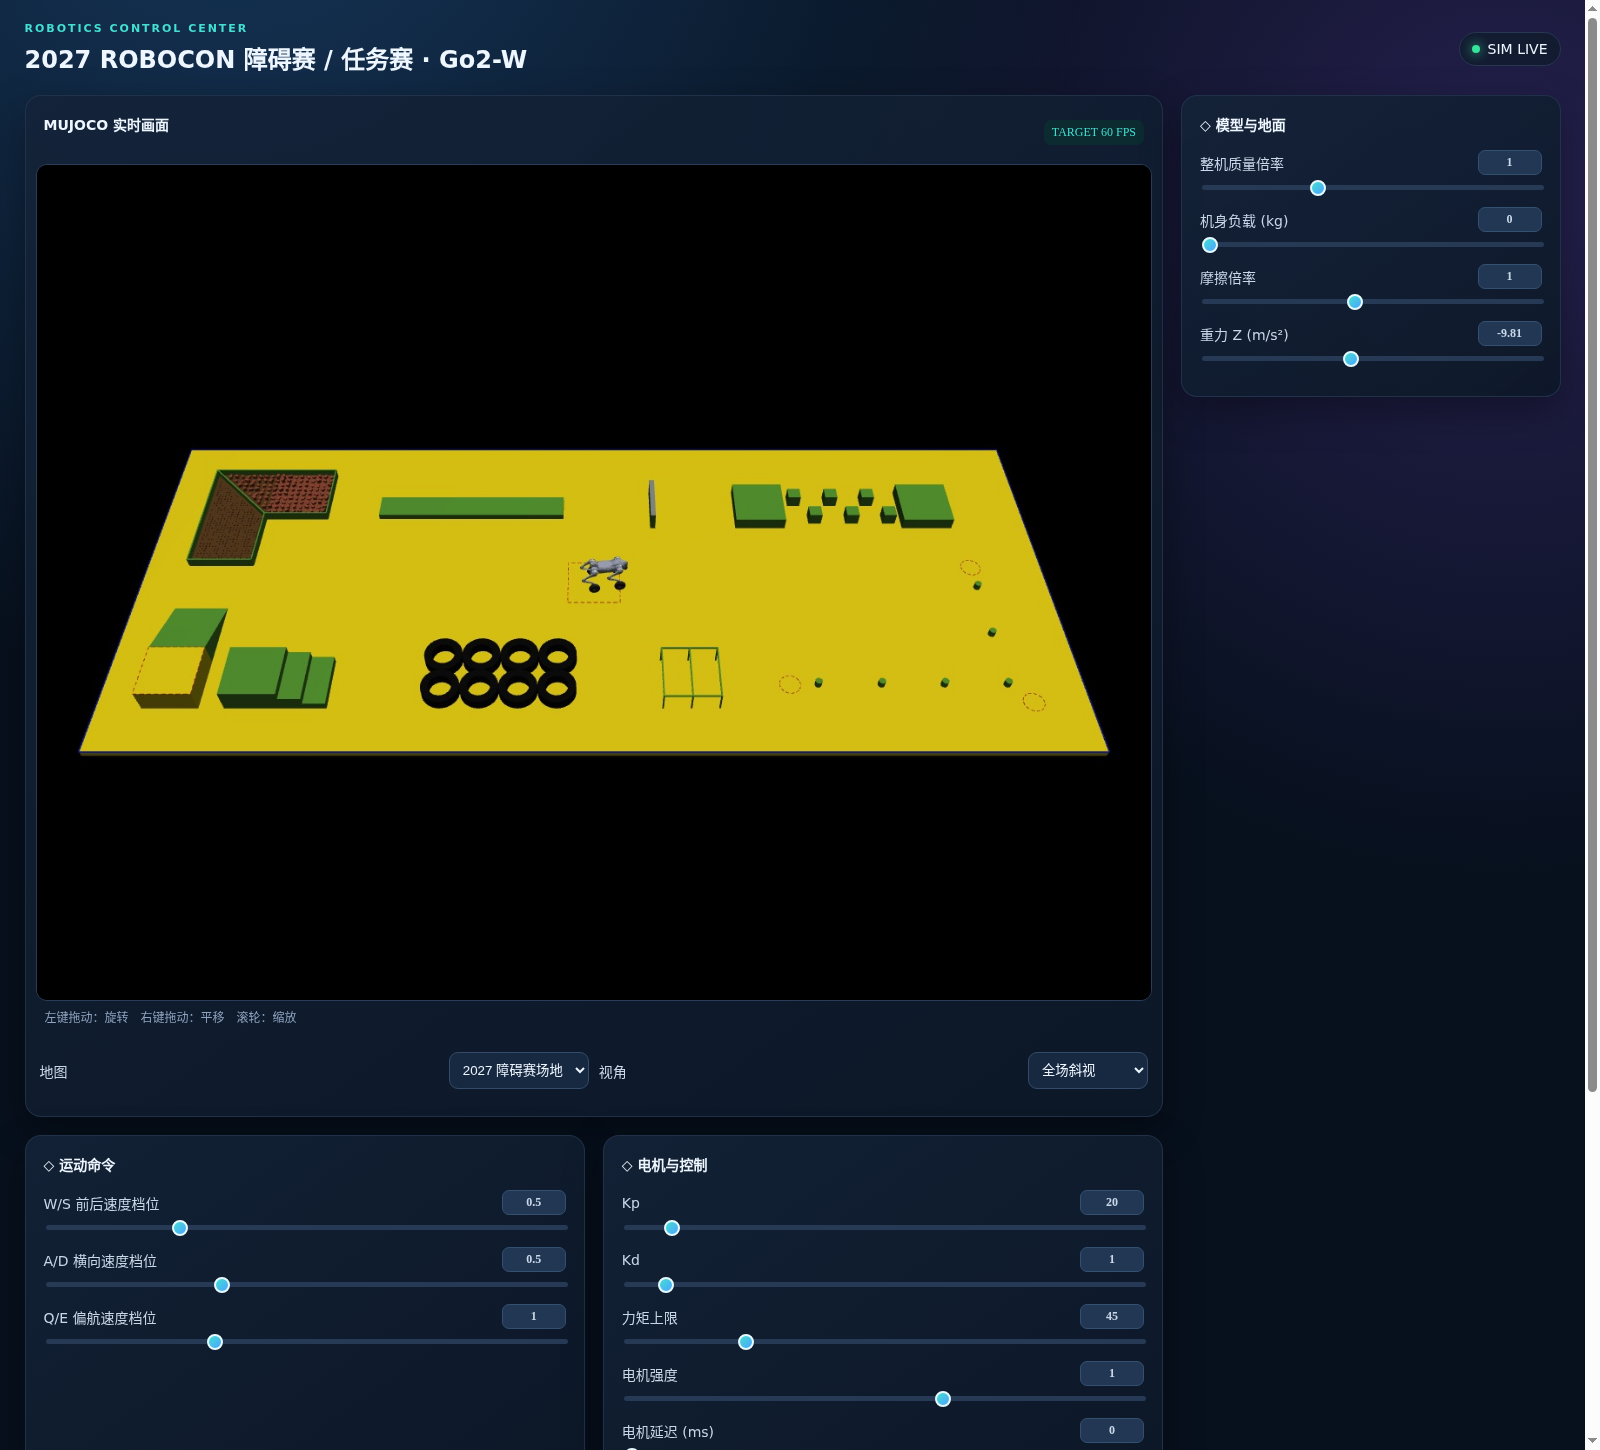
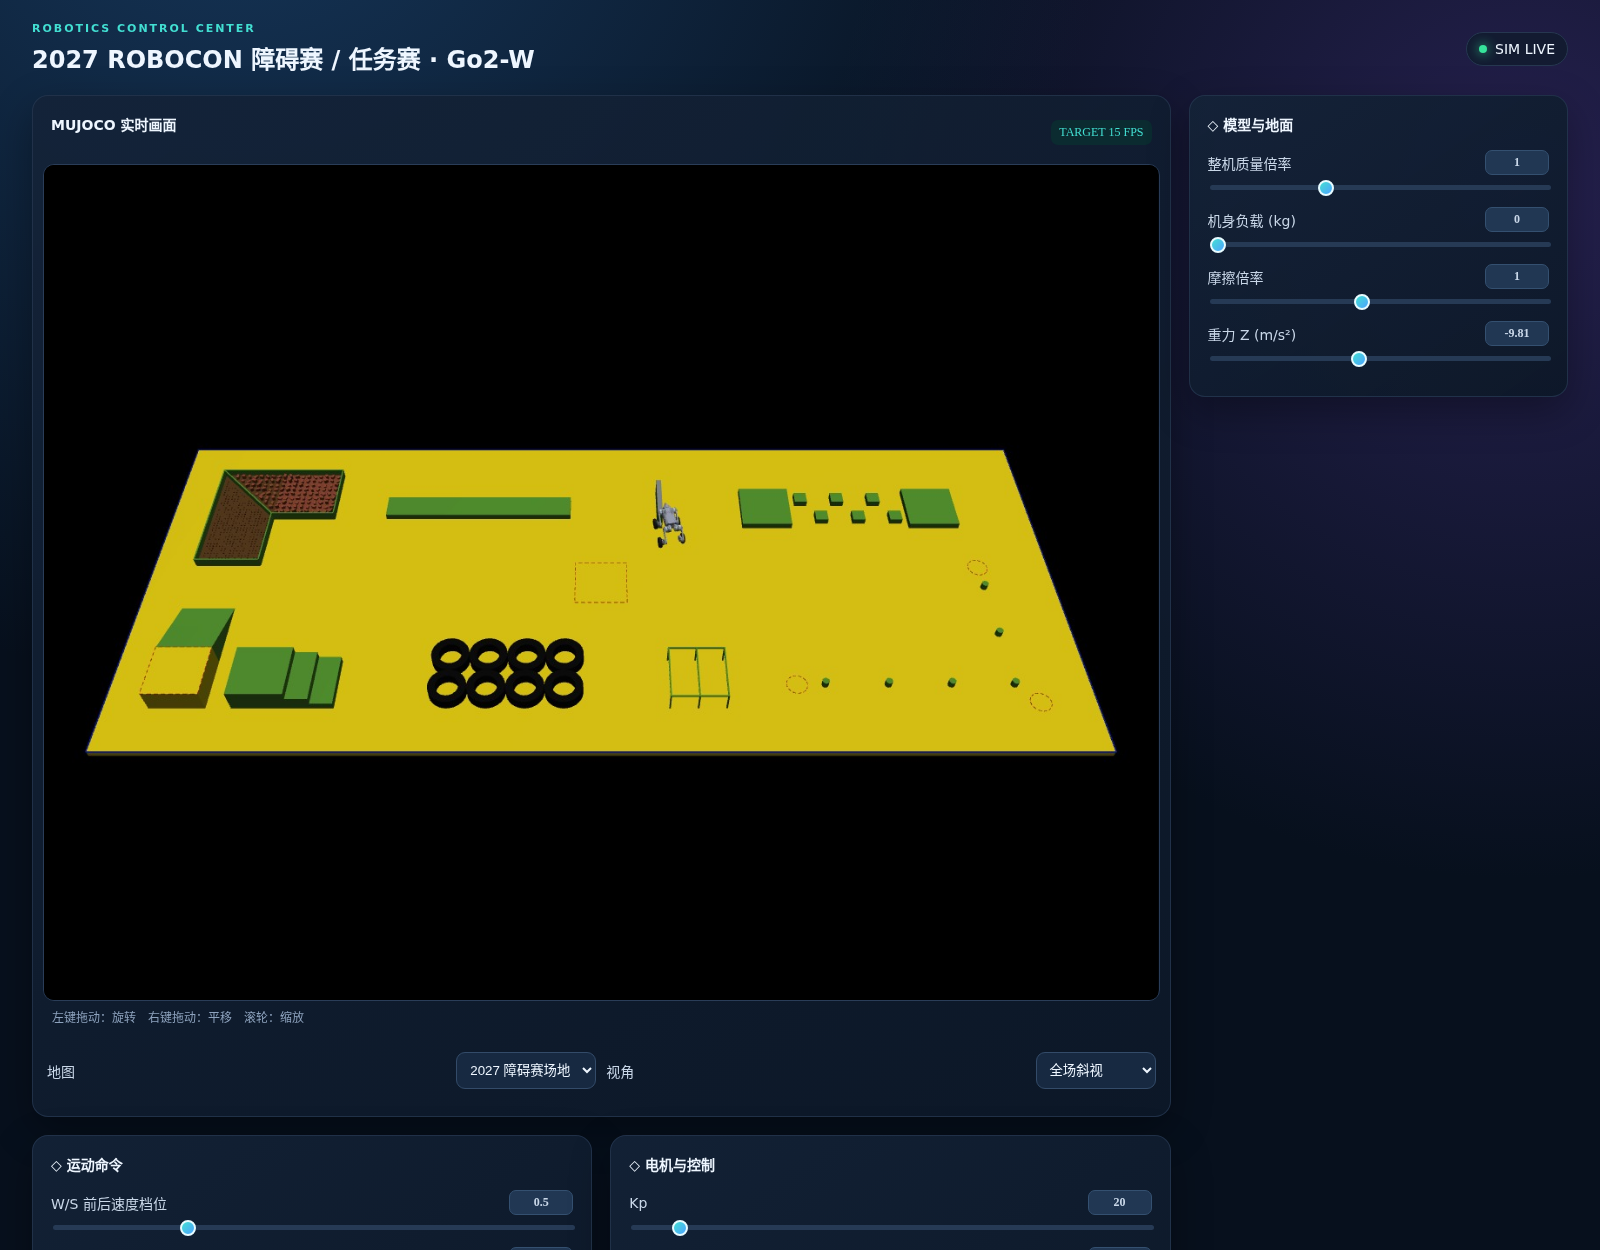
v2

Changed region(s): [[0.0, 0.0, 1.0, 1.0]]

diff --git a/scripts/generate_course.py b/scripts/generate_course.py
@@ -1,4 +1,4 @@
-"""Generate a self-contained MJCF training course from ROBOCON 2027 rules."""
+"""Generate a self-contained MJCF training course from ROBOCON 2027 V2.0 rules."""
 from pathlib import Path
 import math
 import random
@@ -73,12 +73,12 @@ def build():
     b=body('high_wall',(.95,1.55,0))
     geom(b,'wall_main',(0,0,.1475),(.04,.4,.1475))
     geom(b,'wall_steel_cap',(0,0,.2975),(.04,.4,.0025),color='0.55 0.58 0.60 1')
-    # Plum blossom blocks: total length 3.5 m, two staggered rows of three blocks.
+    # V2.0: 0.1 m-high platforms and blocks; total length 3.5 m, two staggered rows.
     b=body('stepping_stones',(2.29,1.55,0))
     for label,x in [('entry',.4),('exit',3.1)]:
-        geom(b,f'stones_{label}_platform',(x,0,.1),(.4,.4,.1))
+        geom(b,f'stones_{label}_platform',(x,0,.05),(.4,.4,.05))
     for row,(x0,y) in enumerate([(1.,.2),(1.3,-.2)]):
-        for i in range(3): geom(b,f'stone_{row}_{i}',(x0+.6*i,y,.1),(.1,.1,.1))
+        for i in range(3): geom(b,f'stone_{row}_{i}',(x0+.6*i,y,.05),(.1,.1,.05))
     # Clearance frame: actual inner width .8 and beam UNDERSIDE z=.29.
     b=body('clearance_frame',(1.37,-1.88,0))
     for i,x in enumerate([-.4,0,.4]):

diff --git a/README.md b/README.md
@@ -1,12 +1,23 @@
 # 2027 ROBOCON 足式机器人挑战赛 · MuJoCo 场地
 
-根据《2027 年足式机器人挑战赛比赛规则 V1.0》搭建的 **障碍赛与任务赛 MJCF 场景**，用于场地预览、机器人越障测试和 sim-to-sim 验证。另提供 Go2-W ONNX 行走策略的部署入口，可在浏览器面板中切换两张地图、控制机器人并实时调参。
+根据《2027 年足式机器人挑战赛比赛规则》搭建的 **障碍赛与任务赛 MJCF 场景**，用于场地预览、机器人越障测试和 sim-to-sim 验证。另提供 Go2-W ONNX 行走策略的部署入口，可在浏览器面板中切换两张地图、控制机器人并实时调参。
+
+障碍赛已按 V2.0（2026-10-29）更新：梅花桩及两端平台高度为 100 mm，轮胎为黑色。任务赛场地沿用 V1.0 建模，当前未实现自动判分。
 
 场地按规则尺寸和示意图建模，是训练与验证用实现；障碍赛最终摆放位置以赛事公布为准。
 
 ![Go2-W 浏览器仿真面板：障碍赛地图](docs/images/gui-obstacle.png)
 
 *实际浏览器界面：左侧为 MuJoCo 画面，下方预留菜单用于选择地图和视角，右侧可调整质量、载荷、摩擦和重力。*
+
+## 更新日志
+
+### 2026-10-29
+
+- 按比赛规则 V2.0 更新障碍赛地图：梅花桩方块由 200 × 200 × 200 mm 改为 200 × 200 × 100 mm，两端平台由 800 × 800 × 200 mm 改为 800 × 800 × 100 mm，底面保持贴地。
+- 核对轮胎为规则要求的黑色，同步更新障碍赛生成脚本、场地 XML 与建模说明。
+- 重新渲染障碍赛斜视图、俯视图，并更新浏览器面板截图。
+- 通过几何尺寸核对、MuJoCo 3.11.0 加载与 100 步运行验证。
 
 ## 地图预览
 
@@ -198,7 +209,7 @@ python scripts/generate_task_course.py
 
 ## 来源与许可
 
-场地依据《2027 年足式机器人挑战赛比赛规则 V1.0》，障碍赛对应第 3.1 节、图 1-1 / 1-2、表 1，任务赛对应第 3.2 节、图 2–6。物资箱标识图片直接提取自规则 PDF 图 3。规则原文、赛事标识和这些图片属于第三方来源素材。
+场地依据《2027 年足式机器人挑战赛比赛规则》，障碍赛按 V2.0、任务赛按 V1.0 建模。障碍赛对应第 3.1 节、图 1-1 / 1-2、表 1，任务赛对应第 3.2 节、图 2–6。物资箱标识图片直接提取自规则 PDF 图 3。规则原文、赛事标识和这些图片属于第三方来源素材。
 
 内置机器人、mesh、策略及部署实现取自 [Unitree RL mjlab](https://github.com/unitreerobotics/unitree_rl_mjlab) 的本地 Go2-W 扩展工程。原工程附带的 Apache-2.0 许可文本保存在 [third_party/unitree_rl_mjlab.LICENCE](third_party/unitree_rl_mjlab.LICENCE)，资源清单见 [来源说明](third_party/README.md)。浏览器控制面板使用 [mujoco-gui](https://github.com/uwvwko-zzz/mujoco-gui)，物理仿真使用 [MuJoCo](https://github.com/google-deepmind/mujoco)。这些依赖及素材各自的许可不由本项目替代。
 

diff --git a/docs/gallery.md b/docs/gallery.md
@@ -4,6 +4,8 @@
 
 ## 障碍赛：整体布局
 
+障碍赛场地图与面板截图已按 V2.0 更新：梅花桩方块为 200 × 200 × 100 mm，两端平台为 800 × 800 × 100 mm，轮胎为黑色。
+
 ![障碍赛场地斜视图](images/obstacle-overview.png)
 
 黄色底板为 14 × 6 m 场地。图中包含全部八类障碍，绕桩和沟壑组合均呈 L 形；轮胎用分段环形几何建模，中间保留可落脚的孔洞。最终比赛摆放位置未公布，这里采用规则示意图的相对布局。
@@ -34,6 +36,6 @@
 
 ![任务赛浏览器控制面板](images/gui-task.png)
 
-两图来自同一个浏览器面板。画面下方的地图选择菜单可以切换比赛场地，视角菜单提供跟随、全场斜视和俯视。右侧展示模型与地面参数；向下滚动还能看到速度、执行器设置、实时曲线与操作按钮。
+两图来自项目实际浏览器面板，障碍赛截图展示 V2.0 全场斜视。画面下方的地图选择菜单可以切换比赛场地，视角菜单提供跟随、全场斜视和俯视。右侧展示模型与地面参数；向下滚动还能看到速度、执行器设置、实时曲线与操作按钮。
 
-默认画面为 1280 × 960、目标 60 FPS、JPEG 质量 92。这里展示的机器人用于验证行走和控制链路，不代表已经具备抓取或比赛任务能力。
+默认画面为 1280 × 960、目标 60 FPS、JPEG 质量 92；本次障碍赛截图为降低截图时的渲染负载，使用 15 FPS。这里展示的机器人用于验证行走和控制链路，不代表已经具备抓取或比赛任务能力。

diff --git a/docs/modeling.md b/docs/modeling.md
@@ -21,8 +21,8 @@
 | `high_wall` | 厚 0.08、宽 0.8、高 0.3，顶部钢色包覆 |
 | `gap_assembly` | 两座 0.8 × 0.8 × 0.36 平台，间隔 0.36；外露台阶深 0.32、高差 0.12；斜坡 20°，水平长约 0.989 |
 | `brick_bark_pit` | 外形 2 × 2 的 L 形，两臂宽 1；护栏高 0.15，内部斜分隔栏 |
-| `tire_array` | 2 × 4 轮胎；外径 0.55、内径 0.33、轴向厚度 0.165；阵列 2.2 × 1.1 |
-| `stepping_stones` | 两端平台 0.8 × 0.8 × 0.2，六个 0.2 立方桩；整体长 3.5，排间净距 0.2、同排净距 0.4，首桩净距 0.1 / 0.4 |
+| `tire_array` | 2 × 4 黑色轮胎；外径 0.55、内径 0.33、轴向厚度 0.165；阵列 2.2 × 1.1 |
+| `stepping_stones` | 两端平台 0.8 × 0.8 × 0.1，六个 0.2 × 0.2 × 0.1 方块（V2.0）；整体长 3.5，排间净距 0.2、同排净距 0.4，首桩净距 0.1 / 0.4 |
 | `balance_beam` | 长 3、宽 0.4、高 0.1 |
 
 `start_1`、`start_2` sites 标示启动区；`slalom_entry`、`slalom_corner`、`slalom_exit` sites 标示圆形必达区。

diff --git a/docs/reference/README.md b/docs/reference/README.md
@@ -1,5 +1,5 @@
 # 本地规则参考
 
-此目录用于保存建模使用的《2027 年足式机器人挑战赛比赛规则 V1.0》PDF 原文件，供本地核对。
+此目录用于保存建模使用的《2027 年足式机器人挑战赛比赛规则》V1.0 与 V2.0 PDF 原文件，供本地核对。
 
 PDF 已移动至此处并保留，`.gitignore` 默认排除本目录的 PDF。公开文档中的建模依据、尺寸和假设见主 README 与 `docs/modeling.md`。
